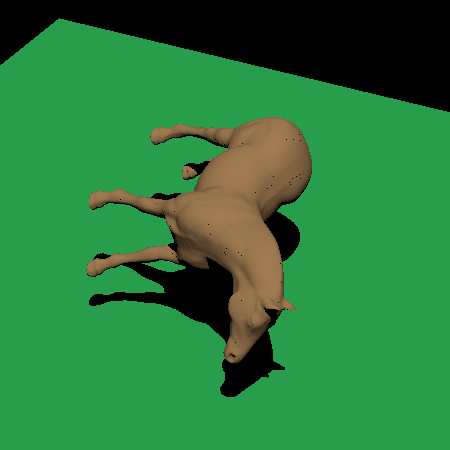
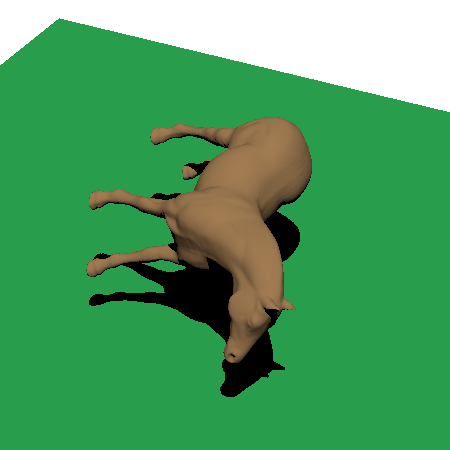
environmental mappsing

Changed region(s): [[0.0, 0.0, 1.0, 0.2489]]

diff --git a/a7/src/ray2/light/Cubemap.java b/a7/src/ray2/light/Cubemap.java
@@ -57,7 +57,12 @@ public class Cubemap {
 	public void evaluate(Vector3d dir, Colord outRadiance) {
 		//TODO#A7 Look up for the radiance of the environment mapping in a given direction
 		//don't forget to multiply the radiance by scaleFactor
-		
+		int face = dirToFace(dir, faceUV);
+		int idx = faceToIndex(face, faceUV);
+		float r = imageData[3*idx];
+		float g = imageData[3*idx+1];
+		float b = imageData[3*idx+2];
+		outRadiance.set((new Vector3d(r,g,b).mul(scaleFactor)));
 	}
 
 	protected int dirToFace(Vector3d dir, Vector2d outFaceUV) {

diff --git a/a7/src/ray2/light/RectangleLight.java b/a7/src/ray2/light/RectangleLight.java
@@ -85,7 +85,7 @@ public class RectangleLight extends Light {
 		float dist = (float)l.clone().len();
 		float atten = 1.0f / (float)shadingPoint.distSq(samplePoint);
 		// 4. compute the probablity this light point is sampled, which is used for Monte-Carlo integration
-		float probability = 1f;
+		float probability = 1f/(float)(width*height);
 		// 5. write relevant info to LightSamplingRecord object
 		lRec.direction.set(l);
 		lRec.distance = dist;

diff --git a/a7/src/ray2/shader/Glazed.java b/a7/src/ray2/shader/Glazed.java
@@ -51,6 +51,7 @@ public class Glazed extends Shader {
 		// TODO#A7: fill in this function.
 		// You may find it helpful to create helper methods if the code here gets too long.
 		//  1) Compute the Fresnel term R
+//		double fresnel = fresnel();
         //  2) Shade the substrate and multiply the result color by 1 - R
         //  3) Compute the reflected ray and call RayTracer.shadeRay on it, multiply result color by R
 		
